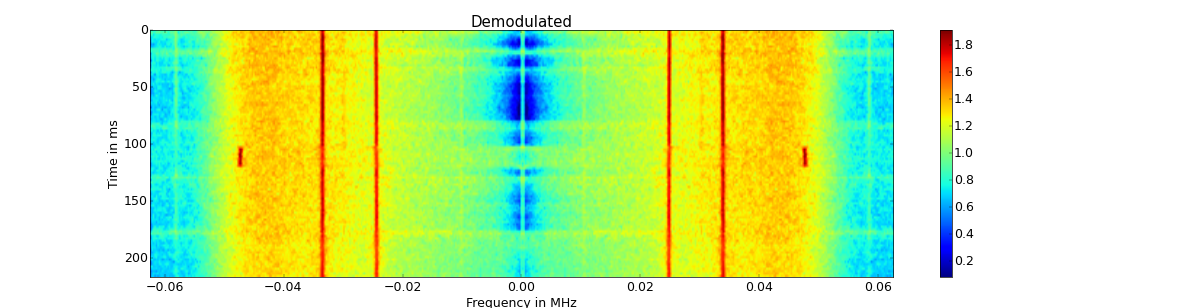
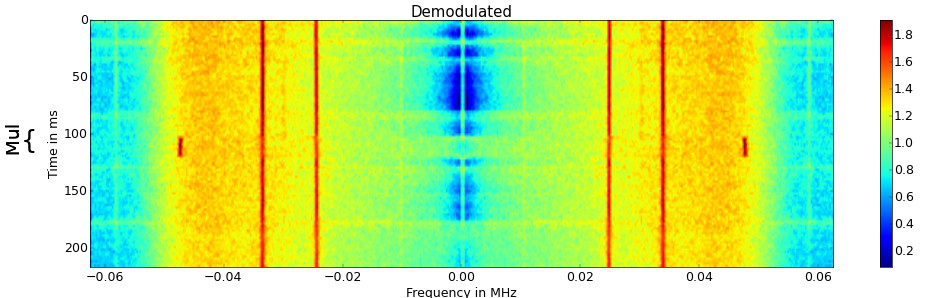
openssl

diff --git a/sca/openssl.md b/sca/openssl.md
@@ -31,3 +31,15 @@ It seems that the runtime of the multiplications correlate with the newly appear
 
 ![alt tag](images/dell-mul-2048-mean.jpg)
 
+One advantage to Differential Poweranalysis is, that it can be easily adopted to data with a higher dimension.
+In this case Differential power analysis is directly performed on the spectrogram, that reveals the location of sidechannel leakage in time and frequency domain.
+
+The following image shows a DPA on the spectrogram of multiplications, wheras arg are two different numbers lower than N.
+No obvious differences can be observed.
+
+![alt tag](images/dell-mul-dpa-equal.jpg)
+
+If we choose one number greater and one smaller than N, strong differences can be observed in the spectrogram.
+This means it is possible to compare one argument with N just by looking at the electrical emmanations of the device.
+
+![alt tag](images/dell-mul-dpa-unequal.jpg)

diff --git a/sca/introduction.md b/sca/introduction.md
@@ -30,7 +30,6 @@ The following image shows, the setup for sidechannel analysis of a desktop PC:
 The desktop PC on the left is the Device Under Test (DUT) with a loop antenna on top, that gets 'attacked' by the laptop on the right
 In the middle, the upconverter and SDR receiver is located.
 
-
 A simple Experiment to test for basic sidechannel effects to use the following programm, that puts load on one CPU core and then sleeps for a while.
 
 ```python
